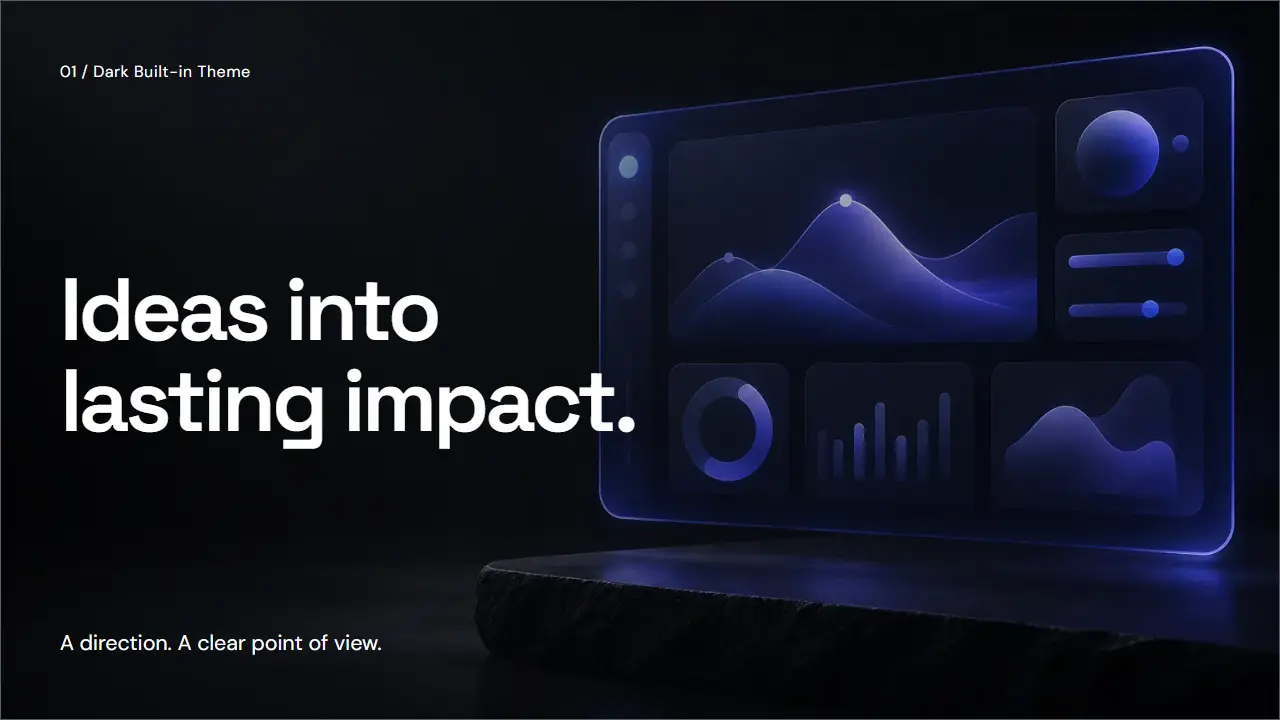
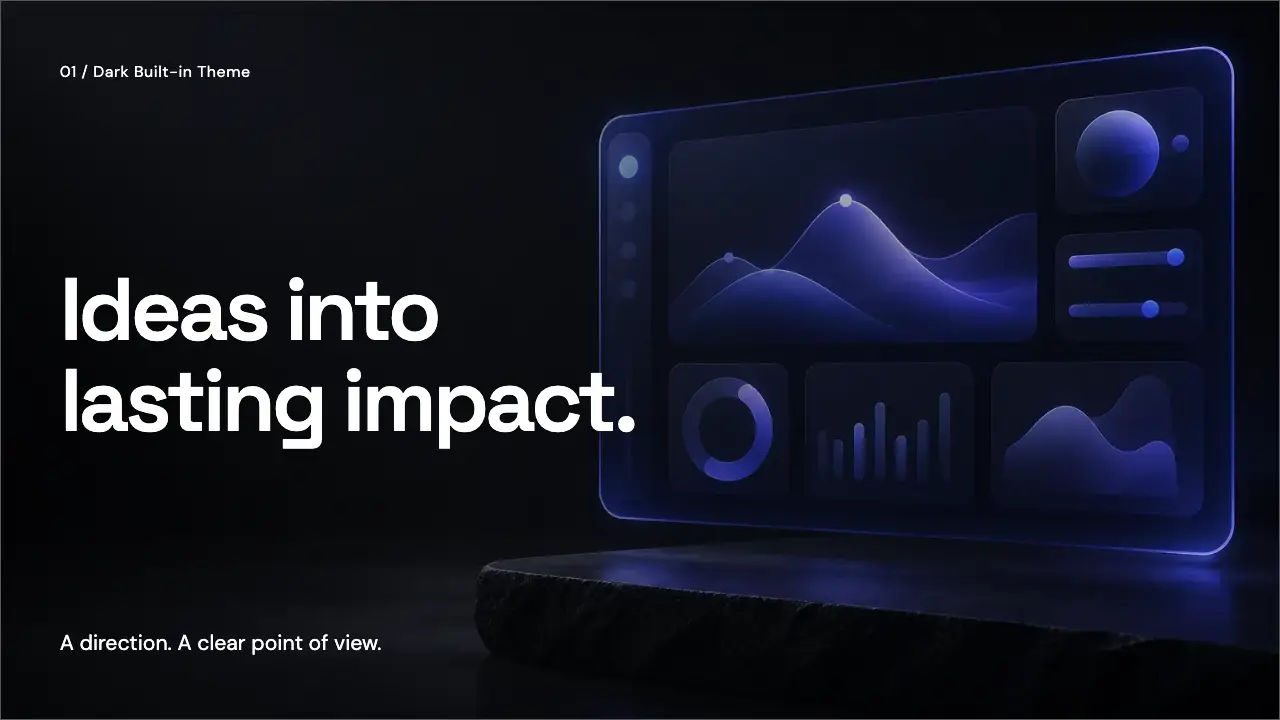
fix(themes): hold --fg-4 to the 4.5:1 text threshold and ship the slide thumbnails
--fg-4 sets captions, bylines and catalogue labels at 9.5-12px, so the seed test now measures it as text on every ground. Nine classic palettes raise it to 4.50-4.56:1. The ten regenerated slide thumbnails were left out of the first commit and are now included.

diff --git a/packages/backend/tests/bundled-seed-themes.test.ts b/packages/backend/tests/bundled-seed-themes.test.ts
@@ -90,7 +90,8 @@ function contrastRatio(a: string, b: string): number {
 
 /** Text pairs need 4.5:1 (WCAG 1.4.3); component boundaries and focus need 3:1 (WCAG 1.4.11). */
 const TEXT_PAIRS: ReadonlyArray<readonly [string, string]> = [
-  ...["fg-1", "fg-2", "fg-3"].flatMap((text) =>
+  // fg-4 sets captions, bylines and catalogue labels at 9.5-12px, so it is normal text, not a component.
+  ...["fg-1", "fg-2", "fg-3", "fg-4"].flatMap((text) =>
     ["bg", "bg-subtle", "bg-muted", "surface"].map((ground) => [text, ground] as const),
   ),
   ["fg-on-dark", "surface-inverse"],
@@ -103,7 +104,6 @@ const TEXT_PAIRS: ReadonlyArray<readonly [string, string]> = [
   ["fg-on-error", "error"],
 ];
 const COMPONENT_PAIRS: ReadonlyArray<readonly [string, string]> = [
-  ["fg-4", "bg"],
   ["border-strong", "bg"],
   ["focus-ring", "bg"],
   ["primary-blue", "bg"],
@@ -130,9 +130,12 @@ describe("bundled design systems", () => {
 
   test("state provenance truthfully per theme", async () => {
     // Every bundled palette is BurnGuard's own, so no theme may claim an attribution it does not owe.
-    for (const slug of THEME_SLUGS) {
-      const readme = await readFile(path.join(themesRoot, slug, "README.md"), "utf8");
-      const css = await readFile(path.join(themesRoot, slug, "colors_and_type.css"), "utf8");
+    const themes = await Promise.all(THEME_SLUGS.map(async (slug) => ({
+      slug,
+      readme: await readFile(path.join(themesRoot, slug, "README.md"), "utf8"),
+      css: await readFile(path.join(themesRoot, slug, "colors_and_type.css"), "utf8"),
+    })));
+    for (const { slug, readme, css } of themes) {
       expect(readme, slug).toContain(
         (CLASSIC_SLUGS as readonly string[]).includes(slug)
           ? "Palette authored for BurnGuard"
@@ -143,7 +146,8 @@ describe("bundled design systems", () => {
         expect(css, `${slug}: ${borrowed}`).not.toContain(borrowed);
       }
     }
-  });
+    // Eighty-two theme files; allow bounded slow-disk I/O as the seed-copy case below does.
+  }, 30_000);
 
   test("Given a classic theme palette When its colour pairs are measured Then each meets WCAG 2.2 AA", async () => {
     for (const slug of CLASSIC_SLUGS) {
@@ -161,7 +165,7 @@ describe("bundled design systems", () => {
         }
       }
     }
-  });
+  }, 30_000);
 
   test("ship layout as tokens, not as a per-artifact decision", async () => {
     // A design system is grid, measure and rhythm as much as colour and type. Without these an

diff --git a/design system themes/catalogue.html b/design system themes/catalogue.html
@@ -102,7 +102,7 @@ h1{font-size:34px;letter-spacing:-0.01em;margin:0 0 8px}
   --fg-1: #141720;
   --fg-2: #343947;
   --fg-3: #4C5263;
-  --fg-4: #767C8C;
+  --fg-4: #626876;
   --fg-on-dark: #EEF0F5;
   --fg-on-brand: #E8EEFB;
   --border: #E6E8ED;
@@ -300,7 +300,7 @@ h1{font-size:34px;letter-spacing:-0.01em;margin:0 0 8px}
   --fg-1: #EEF0F5;
   --fg-2: #CDD1DB;
   --fg-3: #AFB4C1;
-  --fg-4: #858B99;
+  --fg-4: #8A909E;
   --fg-on-dark: #EEF0F5;
   --fg-on-brand: #172237;
   --border: #252932;
@@ -498,7 +498,7 @@ h1{font-size:34px;letter-spacing:-0.01em;margin:0 0 8px}
   --fg-1: #3A2433;
   --fg-2: #55394B;
   --fg-3: #6B5161;
-  --fg-4: #8F7785;
+  --fg-4: #725B69;
   --fg-on-dark: #FBEFF4;
   --fg-on-brand: #FBFAFE;
   --border: #EFDACD;
@@ -696,7 +696,7 @@ h1{font-size:34px;letter-spacing:-0.01em;margin:0 0 8px}
   --fg-1: #33241A;
   --fg-2: #47352A;
   --fg-3: #56432F;
-  --fg-4: #7A6450;
+  --fg-4: #5C4939;
   --fg-on-dark: #F3E9D8;
   --fg-on-brand: #FCF8F8;
   --border: #D3B98F;
@@ -1092,7 +1092,7 @@ h1{font-size:34px;letter-spacing:-0.01em;margin:0 0 8px}
   --fg-1: #F3E9FF;
   --fg-2: #D9C9F5;
   --fg-3: #BBA8E0;
-  --fg-4: #8E7AB8;
+  --fg-4: #9683BE;
   --fg-on-dark: #F7F0FF;
   --fg-on-brand: #341503;
   --border: #2A1C52;
@@ -1290,7 +1290,7 @@ h1{font-size:34px;letter-spacing:-0.01em;margin:0 0 8px}
   --fg-1: #ECDDB6;
   --fg-2: #D8C597;
   --fg-3: #BFAA7A;
-  --fg-4: #8E7D5A;
+  --fg-4: #968561;
   --fg-on-dark: #F3E8CB;
   --fg-on-brand: #2A2001;
   --border: #241F18;
@@ -1488,7 +1488,7 @@ h1{font-size:34px;letter-spacing:-0.01em;margin:0 0 8px}
   --fg-1: #F2EEF9;
   --fg-2: #D7D0E6;
   --fg-3: #BBB2CF;
-  --fg-4: #8A8199;
+  --fg-4: #958DA4;
   --fg-on-dark: #F2EEF9;
   --fg-on-brand: #360C1F;
   --border: #2D273C;
@@ -1686,7 +1686,7 @@ h1{font-size:34px;letter-spacing:-0.01em;margin:0 0 8px}
   --fg-1: #1D2833;
   --fg-2: #33404D;
   --fg-3: #46535F;
-  --fg-4: #66727D;
+  --fg-4: #525D68;
   --fg-on-dark: #E8EEF1;
   --fg-on-brand: #E7EFF5;
   --border: #CAD6DB;
@@ -1884,7 +1884,7 @@ h1{font-size:34px;letter-spacing:-0.01em;margin:0 0 8px}
   --fg-1: #E3E5E8;
   --fg-2: #C9CDD2;
   --fg-3: #AEB3BA;
-  --fg-4: #7E848C;
+  --fg-4: #838991;
   --fg-on-dark: #E3E5E8;
   --fg-on-brand: #F1F5FB;
   --border: #121315;

diff --git a/design system themes/business/colors_and_type.css b/design system themes/business/colors_and_type.css
@@ -62,7 +62,7 @@
   --fg-1: #E3E5E8;
   --fg-2: #C9CDD2;
   --fg-3: #AEB3BA;
-  --fg-4: #7E848C;
+  --fg-4: #838991;
   --fg-on-dark: #E3E5E8;
   --fg-on-brand: #F1F5FB;
   --border: #121315;

diff --git a/design system themes/cupcake/colors_and_type.css b/design system themes/cupcake/colors_and_type.css
@@ -62,7 +62,7 @@
   --fg-1: #3A2433;
   --fg-2: #55394B;
   --fg-3: #6B5161;
-  --fg-4: #8F7785;
+  --fg-4: #725B69;
   --fg-on-dark: #FBEFF4;
   --fg-on-brand: #FBFAFE;
   --border: #EFDACD;

diff --git a/design system themes/dark/colors_and_type.css b/design system themes/dark/colors_and_type.css
@@ -62,7 +62,7 @@
   --fg-1: #EEF0F5;
   --fg-2: #CDD1DB;
   --fg-3: #AFB4C1;
-  --fg-4: #858B99;
+  --fg-4: #8A909E;
   --fg-on-dark: #EEF0F5;
   --fg-on-brand: #172237;
   --border: #252932;

diff --git a/design system themes/dracula/colors_and_type.css b/design system themes/dracula/colors_and_type.css
@@ -62,7 +62,7 @@
   --fg-1: #F2EEF9;
   --fg-2: #D7D0E6;
   --fg-3: #BBB2CF;
-  --fg-4: #8A8199;
+  --fg-4: #958DA4;
   --fg-on-dark: #F2EEF9;
   --fg-on-brand: #360C1F;
   --border: #2D273C;

diff --git a/design system themes/light/colors_and_type.css b/design system themes/light/colors_and_type.css
@@ -62,7 +62,7 @@
   --fg-1: #141720;
   --fg-2: #343947;
   --fg-3: #4C5263;
-  --fg-4: #767C8C;
+  --fg-4: #626876;
   --fg-on-dark: #EEF0F5;
   --fg-on-brand: #E8EEFB;
   --border: #E6E8ED;

diff --git a/design system themes/luxury/colors_and_type.css b/design system themes/luxury/colors_and_type.css
@@ -62,7 +62,7 @@
   --fg-1: #ECDDB6;
   --fg-2: #D8C597;
   --fg-3: #BFAA7A;
-  --fg-4: #8E7D5A;
+  --fg-4: #968561;
   --fg-on-dark: #F3E8CB;
   --fg-on-brand: #2A2001;
   --border: #241F18;

diff --git a/design system themes/nord/colors_and_type.css b/design system themes/nord/colors_and_type.css
@@ -62,7 +62,7 @@
   --fg-1: #1D2833;
   --fg-2: #33404D;
   --fg-3: #46535F;
-  --fg-4: #66727D;
+  --fg-4: #525D68;
   --fg-on-dark: #E8EEF1;
   --fg-on-brand: #E7EFF5;
   --border: #CAD6DB;

diff --git a/design system themes/previews/business.html b/design system themes/previews/business.html
@@ -66,7 +66,7 @@
   --fg-1: #E3E5E8;
   --fg-2: #C9CDD2;
   --fg-3: #AEB3BA;
-  --fg-4: #7E848C;
+  --fg-4: #838991;
   --fg-on-dark: #E3E5E8;
   --fg-on-brand: #F1F5FB;
   --border: #121315;

diff --git a/design system themes/previews/cupcake.html b/design system themes/previews/cupcake.html
@@ -66,7 +66,7 @@
   --fg-1: #3A2433;
   --fg-2: #55394B;
   --fg-3: #6B5161;
-  --fg-4: #8F7785;
+  --fg-4: #725B69;
   --fg-on-dark: #FBEFF4;
   --fg-on-brand: #FBFAFE;
   --border: #EFDACD;

diff --git a/design system themes/previews/dark.html b/design system themes/previews/dark.html
@@ -66,7 +66,7 @@
   --fg-1: #EEF0F5;
   --fg-2: #CDD1DB;
   --fg-3: #AFB4C1;
-  --fg-4: #858B99;
+  --fg-4: #8A909E;
   --fg-on-dark: #EEF0F5;
   --fg-on-brand: #172237;
   --border: #252932;
